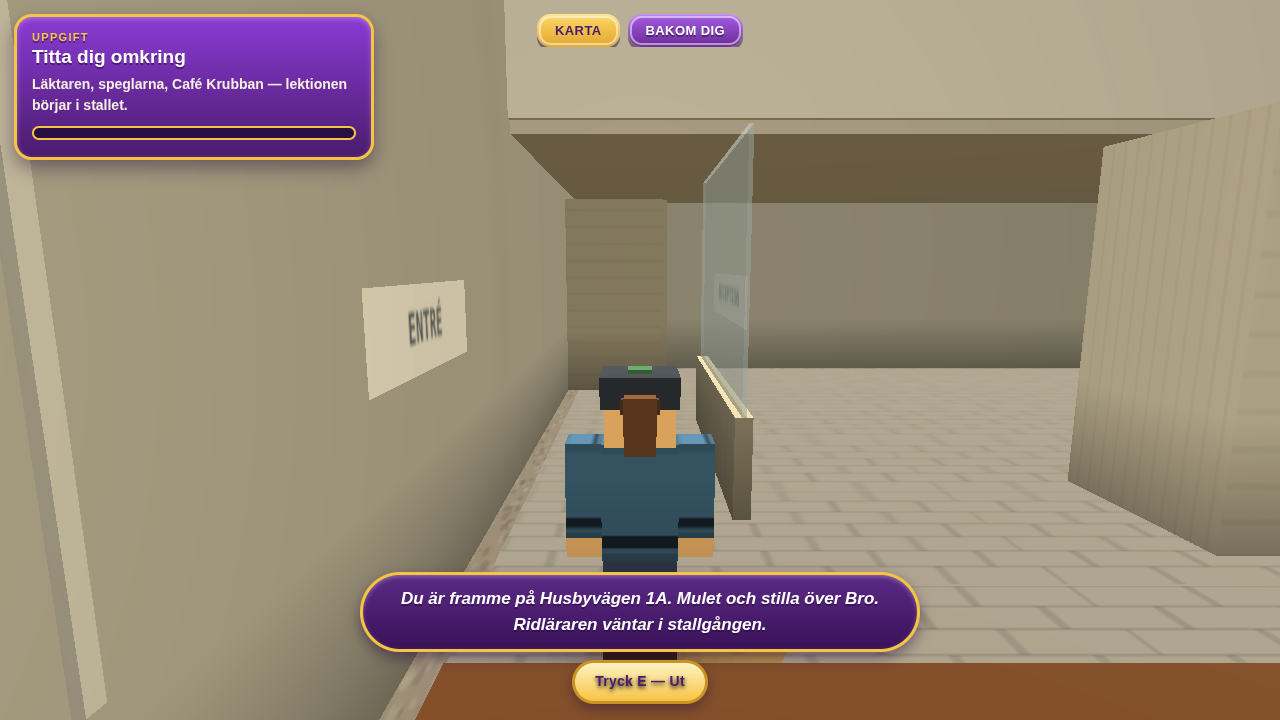
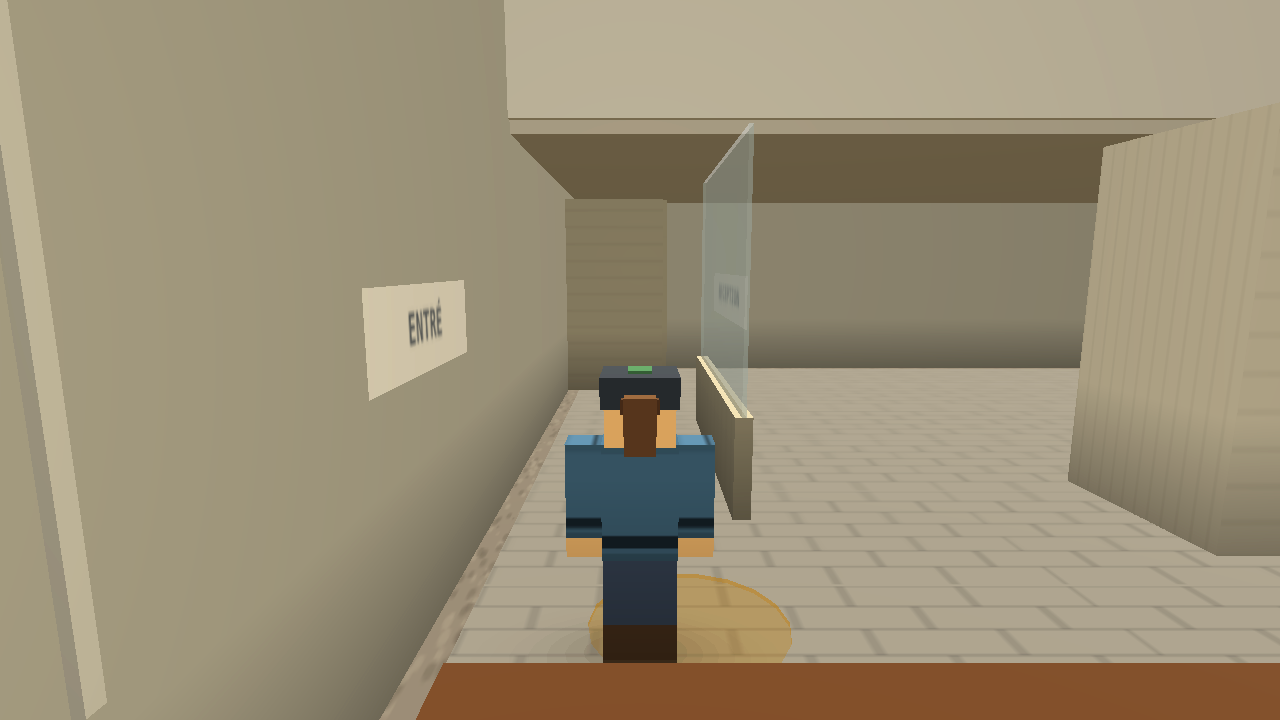
Visuell grind: incheckat reviewpaket renderat från a640159
Renderat från rent arbetsträd på a640159b3b209279b3832ba50287c9de2589ec8b med --forvantad-head; den här
committen ändrar ingen kod. CI-artifacten från exakt PR-head är den
kanoniska kopian.

Claude-Session: https://claude.ai/code/session_01RBDjv5xAUC4NuuvYQvQjGc

Changed region(s): [[0.0, 0.0, 0.3125, 0.2444], [0.2812, 0.7944, 0.7188, 1.0], [0.4062, 0.0, 0.5938, 0.0917]]

diff --git a/docs/visual-gate/pack/index.html b/docs/visual-gate/pack/index.html
@@ -1,30 +1,32 @@
-<!doctype html><meta charset="utf-8"><title>UBRF screenshot-pack abd73b0</title>
+<!doctype html><meta charset="utf-8"><title>UBRF screenshot-pack a640159</title>
 <style>body{font:14px system-ui;margin:1.5rem;max-width:1400px}section{border-top:1px solid #ccc;padding:1rem 0}.par{display:grid;grid-template-columns:1fr 1fr;gap:1rem}img{max-width:100%;border:1px solid #999}figure{margin:0 0 .5rem}figcaption,.meta{font-size:12px;color:#444}table{margin-top:.5rem;border-collapse:collapse}th,td{text-align:left;padding:.2rem .6rem;vertical-align:top;border:1px solid #ddd}.gap{color:#a00}code{font-size:12px}</style>
 <h1>UBRF — Visual Fidelity Gate, screenshot-pack</h1>
-<p>Head <code>abd73b0465eeb8e0fc88699e4810bf7fb7fe26c8</code> · renderad 2026-09-04T05:11:14.720Z · 12 kameror · figuren dold i 0.</p>
+<p>Head <code>a640159b3b209279b3832ba50287c9de2589ec8b</code> · renderad 2026-09-04T05:34:03.504Z · 12 kameror · figuren dold i 0.</p>
 <p><b>Statuskedja:</b> IMPLEMENTED → AUTOMATED_GREEN → VISUAL_PACK_READY → CHATGPT_VISUAL_PASS → READY_FOR_PRODUCT_ACCEPTANCE → PRODUCT_ACCEPTED. Det här paketet är <b>VISUAL_PACK_READY</b> som mest. Ingen automation sätter en visuell status; grön CI är inte visual fidelity. Se docs/VISUAL-FIDELITY-GATE.md.</p>
 <nav><a href="#STALL-ENTRE">STALL-ENTRE</a> · <a href="#STALL-UPPEHALL">STALL-UPPEHALL</a> · <a href="#STALL-TEORISAL">STALL-TEORISAL</a> · <a href="#STALL-SADELKAMMARE">STALL-SADELKAMMARE</a> · <a href="#STALL-GANG-A">STALL-GANG-A</a> · <a href="#HASTPASSAGE">HASTPASSAGE</a> · <a href="#RIDHUS-ENTRE">RIDHUS-ENTRE</a> · <a href="#RIDHUS-SKAPKORRIDOR">RIDHUS-SKAPKORRIDOR</a> · <a href="#ARENA-A">ARENA-A</a> · <a href="#ARENA-C">ARENA-C</a> · <a href="#LAKTARE">LAKTARE</a> · <a href="#C-BLOCK-OVRE">C-BLOCK-OVRE</a></nav>
 <section id="STALL-ENTRE">
 <h2>STALL-ENTRE — Stallhuset entré</h2>
-<p>Innanför parkeringssidans entré, blicken söderut in i uppehållsrummet</p>
+<p>Inne i uppehållsrummet 6 m från norra gaveln, blicken norrut mot entrén: vindfånget, dörren, gavelväggen</p>
 <div class="par">
   <div><h3>Referens</h3><figure class="txt"><figcaption>references/buildings/stall/stall-entre-15-dorren.jpg</figcaption></figure><figure class="txt"><figcaption>references/buildings/stall/stall-entre-16-runda-fonstren.jpg</figcaption></figure></div>
-  <div><h3>Implementation @ <code>abd73b0</code></h3><img src="STALL-ENTRE.png" alt="">
-    <p class="meta">spelare [4.55,68.4,0] · kamera [4.55,3.06,69.35] · tonade väggar 0 · siktprov: <b>synlig</b></p></div>
+  <div><h3>Implementation @ <code>a640159</code></h3><img src="STALL-ENTRE.png" alt="">
+    <p class="meta">spelare [4.55,63.95,0] · kamera [4.55,2.25,60.62] · tonade väggar 0 · siktprov: <b>synlig</b></p></div>
 </div>
 <table><tr><th>Mismatch-status (ChatGPT)</th><td><b>EJ_GRANSKAD</b></td></tr>
+<tr><th>Ska synas (ramkontrakt)</th><td>Gavelväggen med entrédörren och vindfångets region rakt fram i ögonhöjd; uppehållsrummets öppna yta fram till gaveln; ingen inre vägg mellan figuren och entrén</td></tr>
 <tr><th>Mismatch</th><td>—</td></tr>
 <tr><th>REFERENCE GAP</th><td>vindfångets insida: ingen interiörbild</td></tr></table>
 </section>
 <section id="STALL-UPPEHALL">
 <h2>STALL-UPPEHALL — Uppehållsrum</h2>
-<p>Uppehållsrummet från norra änden söderut — EN öppen L-formad yta (Spatial Canon v2 stall_uppehall_open)</p>
+<p>Uppehållsrummet från södra änden (vid lobbyn) norrut genom hela rummet</p>
 <div class="par">
   <div><h3>Referens</h3><figure class="txt"><figcaption>references/buildings/stall/stall-inne-01-uppehallsrummet.jpg</figcaption></figure><figure class="txt"><figcaption>references/buildings/stall/stall-inne-02-pentryt.jpg</figcaption></figure></div>
-  <div><h3>Implementation @ <code>abd73b0</code></h3><img src="STALL-UPPEHALL.png" alt="">
-    <p class="meta">spelare [2,68.75,0] · kamera [2,3.46,69.35] · tonade väggar 0 · siktprov: <b>synlig</b></p></div>
+  <div><h3>Implementation @ <code>a640159</code></h3><img src="STALL-UPPEHALL.png" alt="">
+    <p class="meta">spelare [4,61.55,0] · kamera [4,2.25,58.22] · tonade väggar 0 · siktprov: <b>synlig</b></p></div>
 </div>
 <table><tr><th>Mismatch-status (ChatGPT)</th><td><b>EJ_GRANSKAD</b></td></tr>
+<tr><th>Ska synas (ramkontrakt)</th><td>Rummets hela längd (10 m) i ögonhöjd: västväggen till vänster, öppningen mot östdelen (uppehallsrum_o) till höger utan vägg emellan, planens slutna symbolruta till höger, gaveln med entrén längst bort</td></tr>
 <tr><th>Mismatch</th><td>—</td></tr>
 <tr><th>REFERENCE GAP</th><td>möbler (F02-B) saknas ännu — inte ett fel i F02-A</td></tr></table>
 </section>
@@ -33,22 +35,24 @@
 <p>Innanför teorisalens dörr (västväggen), blicken österut genom salen</p>
 <div class="par">
   <div><h3>Referens</h3><figure class="txt"><figcaption>references/buildings/stall/stall-inne-04-teorisalen.jpg</figcaption></figure></div>
-  <div><h3>Implementation @ <code>abd73b0</code></h3><img src="STALL-TEORISAL.png" alt="">
+  <div><h3>Implementation @ <code>a640159</code></h3><img src="STALL-TEORISAL.png" alt="">
     <p class="meta">spelare [12.5,65.65,0] · kamera [9.17,2.25,65.65] · tonade väggar 0 · siktprov: <b>synlig</b></p></div>
 </div>
 <table><tr><th>Mismatch-status (ChatGPT)</th><td><b>EJ_GRANSKAD</b></td></tr>
+<tr><th>Ska synas (ramkontrakt)</th><td>Salens tre väggar (x 11,2 / 17,3, N 5,6) och dörröppningen i västväggen; rummets djup 6,1 m österut</td></tr>
 <tr><th>Mismatch</th><td>—</td></tr>
 <tr><th>REFERENCE GAP</th><td>möbler (F02-B) saknas ännu</td></tr></table>
 </section>
 <section id="STALL-SADELKAMMARE">
 <h2>STALL-SADELKAMMARE — Sadelkammare</h2>
-<p>Innanför sadelkammarens öppning i den genomgående väggen, blicken nordost genom rummet</p>
+<p>Inne i sadelkammaren, blicken österut genom rummet mot östväggen (x 15,5)</p>
 <div class="par">
   <div><h3>Referens</h3><figure class="txt"><figcaption>references/buildings/stall/stall-inne-03-sadelkammaren.jpg</figcaption></figure></div>
-  <div><h3>Implementation @ <code>abd73b0</code></h3><img src="STALL-SADELKAMMARE.png" alt="">
-    <p class="meta">spelare [8.25,58.65,0] · kamera [5.9,2.25,56.3] · tonade väggar 3 · siktprov: <b>synlig</b></p></div>
+  <div><h3>Implementation @ <code>a640159</code></h3><img src="STALL-SADELKAMMARE.png" alt="">
+    <p class="meta">spelare [11.5,61.28,0] · kamera [8.17,2.25,61.28] · tonade väggar 0 · siktprov: <b>synlig</b></p></div>
 </div>
 <table><tr><th>Mismatch-status (ChatGPT)</th><td><b>EJ_GRANSKAD</b></td></tr>
+<tr><th>Ska synas (ramkontrakt)</th><td>Rummets östra hälft i ögonhöjd: östväggen (x 15,5), halvväggen i söder (N 9,1), norrväggen mot teorisalen; inga möbler ännu</td></tr>
 <tr><th>Mismatch</th><td>—</td></tr>
 <tr><th>REFERENCE GAP</th><td>sadelhängare och inredning (F02-B) saknas ännu</td></tr></table>
 </section>
@@ -57,22 +61,24 @@
 <p>I gång A, blicken norrut mot klubbdelen — boxfronter på båda sidor</p>
 <div class="par">
   <div><h3>Referens</h3><figure class="txt"><figcaption>references/buildings/stall/stall-inne-05-stallgangen.jpg</figcaption></figure><figure class="txt"><figcaption>references/buildings/stall/stall-inne-08-breda-gangen.jpg</figcaption></figure></div>
-  <div><h3>Implementation @ <code>abd73b0</code></h3><img src="STALL-GANG-A.png" alt="">
+  <div><h3>Implementation @ <code>a640159</code></h3><img src="STALL-GANG-A.png" alt="">
     <p class="meta">spelare [5.69,12.8,0] · kamera [5.69,2.25,9.47] · tonade väggar 0 · siktprov: <b>synlig</b></p></div>
 </div>
 <table><tr><th>Mismatch-status (ChatGPT)</th><td><b>EJ_GRANSKAD</b></td></tr>
+<tr><th>Ska synas (ramkontrakt)</th><td>Gång A i ögonhöjd med boxfronter (antracit, galvad ram, fem reglar) på båda sidor, markstensgången, klubbdelens tvärvägg långt fram</td></tr>
 <tr><th>Mismatch</th><td>—</td></tr>
 <tr><th>REFERENCE GAP</th><td>vilken av gångarna varje foto visar är inte belagt (INTERIOR-MATRIS i05/i08)</td></tr></table>
 </section>
 <section id="HASTPASSAGE">
 <h2>HASTPASSAGE — Hästpassage</h2>
-<p>I gång A mitt för hästgångens brott i västra boxraden, blicken västerut in i passagen mot ridhuset</p>
+<p>Från gång A:s östra kant i ögonhöjd, blicken västerut genom brottet i västra boxraden in i hästgången mot ridhuset</p>
 <div class="par">
   <div><h3>Referens</h3><figure class="txt"><figcaption>references/plans/SATELLIT-HASTGANG-2026-08-30.md</figcaption></figure></div>
-  <div><h3>Implementation @ <code>abd73b0</code></h3><img src="HASTPASSAGE.png" alt="">
-    <p class="meta">spelare [5.69,29.55,0] · kamera [6.48,3.29,29.55] · tonade väggar 0 · siktprov: <b>synlig</b></p></div>
+  <div><h3>Implementation @ <code>a640159</code></h3><img src="HASTPASSAGE.png" alt="">
+    <p class="meta">spelare [4.99,29.55,0] · kamera [6.79,1.7,30.45] · tonade väggar 0 · siktprov: <b>synlig</b></p></div>
 </div>
 <table><tr><th>Mismatch-status (ChatGPT)</th><td><b>EJ_GRANSKAD</b></td></tr>
+<tr><th>Ska synas (ramkontrakt)</th><td>Brottet i västra boxraden (ett enda, på hästgångens höjd) med dörrmarkören, boxfronterna på båda sidor om brottet, figuren i gångens västra kant; ingen tvärkorridor genom huset</td></tr>
 <tr><th>Mismatch</th><td>—</td></tr>
 <tr><th>REFERENCE GAP</th><td>passagens insida: ingen bild; läget längs husen är härlett (SITEPLAN)</td></tr></table>
 </section>
@@ -81,10 +87,11 @@
 <p>Huvudentrén → norrut över entré/reception: öppen hall, receptionens glas till höger (= golden view RIDHUS-V1)</p>
 <div class="par">
   <div><h3>Referens</h3><figure class="txt"><figcaption>references/buildings/ridhus/ridhus-klubb-01-omkladningsgangen.jpg</figcaption></figure><figure class="txt"><figcaption>references/buildings/ridhus/ridhus-klubb-15-korridoren-mot-glasrummen.jpg</figcaption></figure><figure class="txt"><figcaption>references/buildings/ridhus/ridhus-klubb-02-glasrummen.jpg</figcaption></figure></div>
-  <div><h3>Implementation @ <code>abd73b0</code></h3><img src="RIDHUS-ENTRE.png" alt="">
+  <div><h3>Implementation @ <code>a640159</code></h3><img src="RIDHUS-ENTRE.png" alt="">
     <p class="meta">spelare [1.3,66.98,0] · kamera [1.3,2.25,63.65] · tonade väggar 0 · siktprov: <b>synlig</b></p></div>
 </div>
 <table><tr><th>Mismatch-status (ChatGPT)</th><td><b>EJ_GRANSKAD</b></td></tr>
+<tr><th>Ska synas (ramkontrakt)</th><td>Öppen hall utan rumslådor norrut från huvudentrén, ENTRÉ-plattan, receptionens låga bröstning + glas till höger, toaletternas volym i bortre hörnet</td></tr>
 <tr><th>Mismatch</th><td>—</td></tr>
 <tr><th>REFERENCE GAP</th><td>receptionsglasets väderstreck (GEOMETRY_REFERENCE_GAP)<br>huvudentréns läge: CONTRADICTION plan/fasad, fasaden vinner</td></tr></table>
 </section>
@@ -93,10 +100,11 @@
 <p>Den öppna gången där skåpen står (planens x 4,2–5,7), blicken norrut mot toaletterna</p>
 <div class="par">
   <div><h3>Referens</h3><figure class="txt"><figcaption>references/buildings/ridhus/ridhus-klubb-16-skaprummet-med-pelaren.jpg</figcaption></figure><figure class="txt"><figcaption>references/buildings/ridhus/ridhus-klubb-18-skapraden-narbild.jpg</figcaption></figure><figure class="txt"><figcaption>references/buildings/ridhus/ridhus-klubb-20-grona-skapen.jpg</figcaption></figure><figure class="txt"><figcaption>references/buildings/ridhus/ridhus-klubb-21-grona-skapen-vinkel.jpg</figcaption></figure></div>
-  <div><h3>Implementation @ <code>abd73b0</code></h3><img src="RIDHUS-SKAPKORRIDOR.png" alt="">
+  <div><h3>Implementation @ <code>a640159</code></h3><img src="RIDHUS-SKAPKORRIDOR.png" alt="">
     <p class="meta">spelare [4.95,67.98,0] · kamera [4.95,2.25,64.65] · tonade väggar 0 · siktprov: <b>synlig</b></p></div>
 </div>
 <table><tr><th>Mismatch-status (ChatGPT)</th><td><b>EJ_GRANSKAD</b></td></tr>
+<tr><th>Ska synas (ramkontrakt)</th><td>Fri sikt norrut längs planens skåpremsa (x 4,2–5,7) utan korridorväggar; schaktvolymen till höger; toaletterna längst bort</td></tr>
 <tr><th>Mismatch</th><td>—</td></tr>
 <tr><th>REFERENCE GAP</th><td>skåpen är möbler (F02-B) och saknas ännu; korridorväggarna är återkallade (Spatial Canon v2) — här ska INGEN vägg synas</td></tr></table>
 </section>
@@ -105,10 +113,11 @@
 <p>På banan nära A, blicken söderut mot kortsidan vid A</p>
 <div class="par">
   <div><h3>Referens</h3><figure class="txt"><figcaption>references/buildings/ridhus/ridhus-inne-23-kortsidan-vid-a.jpg</figcaption></figure><figure class="txt"><figcaption>references/buildings/ridhus/ridhus-inne-11-ridbanan.jpg</figcaption></figure></div>
-  <div><h3>Implementation @ <code>abd73b0</code></h3><img src="ARENA-A.png" alt="">
+  <div><h3>Implementation @ <code>a640159</code></h3><img src="ARENA-A.png" alt="">
     <p class="meta">spelare [14.4,6.15,0] · kamera [14.4,2.25,9.48] · tonade väggar 0 · siktprov: <b>synlig</b></p></div>
 </div>
 <table><tr><th>Mismatch-status (ChatGPT)</th><td><b>EJ_GRANSKAD</b></td></tr>
+<tr><th>Ska synas (ramkontrakt)</th><td>Kortsidan vid A: vit sarg med mörk sockel, A-skylten, sanden, väggen ovanför sargen</td></tr>
 <tr><th>Mismatch</th><td>—</td></tr>
 <tr><th>REFERENCE GAP</th><td>—</td></tr></table>
 </section>
@@ -117,10 +126,11 @@
 <p>På banan nära C, blicken norrut mot C-blocket, glasbandet och trapporna</p>
 <div class="par">
   <div><h3>Referens</h3><figure class="txt"><figcaption>references/buildings/ridhus/ridhus-inne-01-glasrummen.jpg</figcaption></figure><figure class="txt"><figcaption>references/buildings/ridhus/ridhus-inne-06-laktaren-och-glasrummet.jpg</figcaption></figure><figure class="txt"><figcaption>references/buildings/ridhus/ridhus-inne-27-glasrummet-inifran-banan.jpg</figcaption></figure></div>
-  <div><h3>Implementation @ <code>abd73b0</code></h3><img src="ARENA-C.png" alt="">
+  <div><h3>Implementation @ <code>a640159</code></h3><img src="ARENA-C.png" alt="">
     <p class="meta">spelare [14.4,57.68,0] · kamera [14.4,2.25,54.35] · tonade väggar 0 · siktprov: <b>synlig</b></p></div>
 </div>
 <table><tr><th>Mismatch-status (ChatGPT)</th><td><b>EJ_GRANSKAD</b></td></tr>
+<tr><th>Ska synas (ramkontrakt)</th><td>C-blocket över norra sargen: bänkraderna, klockväggen mellan de två loppen, vita sidostycken, glasbandet i tre fält, övre gången bakom</td></tr>
 <tr><th>Mismatch</th><td>—</td></tr>
 <tr><th>REFERENCE GAP</th><td>Café Krubbans rum bakom glaset byggs inte (REFERENCE GAP)</td></tr></table>
 </section>
@@ -129,10 +139,11 @@
 <p>På läktardäcket, blicken söderut längs läktaren med banan till vänster</p>
 <div class="par">
   <div><h3>Referens</h3><figure class="txt"><figcaption>references/buildings/ridhus/ridhus-inne-14-laktaren.jpg</figcaption></figure><figure class="txt"><figcaption>references/buildings/ridhus/ridhus-inne-41-banan-fran-laktaren.jpg</figcaption></figure><figure class="txt"><figcaption>references/buildings/ridhus/ridhus-inne-40-domartornet-pa-laktaren.jpg</figcaption></figure><figure class="txt"><figcaption>references/buildings/ridhus/ridhus-inne-43-laktaren-vid-h.jpg</figcaption></figure></div>
-  <div><h3>Implementation @ <code>abd73b0</code></h3><img src="LAKTARE.png" alt="">
+  <div><h3>Implementation @ <code>a640159</code></h3><img src="LAKTARE.png" alt="">
     <p class="meta">spelare [2.3,38.92,0.8] · kamera [2.3,3.05,42.24] · tonade väggar 0 · siktprov: <b>synlig</b></p></div>
 </div>
 <table><tr><th>Mismatch-status (ChatGPT)</th><td><b>EJ_GRANSKAD</b></td></tr>
+<tr><th>Ska synas (ramkontrakt)</th><td>Plankdäcket, den mörka fronten med ljus kappregel och räcket till vänster, banan bortom, domarbåset på däcket, läktarväggen till höger</td></tr>
 <tr><th>Mismatch</th><td>—</td></tr>
 <tr><th>REFERENCE GAP</th><td>läktargångens tredje trappa vid H byggs inte (utanför F02-A)</td></tr></table>
 </section>
@@ -141,10 +152,11 @@
 <p>Från nedersta bänkraden vid klockan (som ridhus-inne-01): raderna, de två loppen, klockväggen, glasbandet och övre gången</p>
 <div class="par">
   <div><h3>Referens</h3><figure class="txt"><figcaption>references/buildings/ridhus/ridhus-inne-01-glasrummen.jpg</figcaption></figure><figure class="txt"><figcaption>references/buildings/ridhus/ridhus-inne-07-laktartrappstegen.jpg</figcaption></figure><figure class="txt"><figcaption>references/buildings/ridhus/ridhus-klubb-10-overvaningens-gang.jpg</figcaption></figure><figure class="txt"><figcaption>references/buildings/ridhus/granskning-2026-08-31/C-kortandan-och-kafeet.md</figcaption></figure></div>
-  <div><h3>Implementation @ <code>abd73b0</code></h3><img src="C-BLOCK-OVRE.png" alt="">
+  <div><h3>Implementation @ <code>a640159</code></h3><img src="C-BLOCK-OVRE.png" alt="">
     <p class="meta">spelare [15.8,66.28,1.12] · kamera [15.8,3.37,62.95] · tonade väggar 0 · siktprov: <b>synlig</b></p></div>
 </div>
 <table><tr><th>Mismatch-status (ChatGPT)</th><td><b>EJ_GRANSKAD</b></td></tr>
+<tr><th>Ska synas (ramkontrakt)</th><td>Från nedersta raden: raderna uppåt, båda loppen stigande utåt från klockväggen, räcken, glasbandet ovanför, övre gångens golv/räcke; spelets bänkradssteg (gul markör) till vänster som SPELABSTRAKTION</td></tr>
 <tr><th>Mismatch</th><td>—</td></tr>
 <tr><th>REFERENCE GAP</th><td>hall → nedersta raden: inget foto (spelets bänkradssteg är SPELABSTRAKTION, gul markör)<br>övre gångens bredd [uppskattning]</td></tr></table>
 </section>
